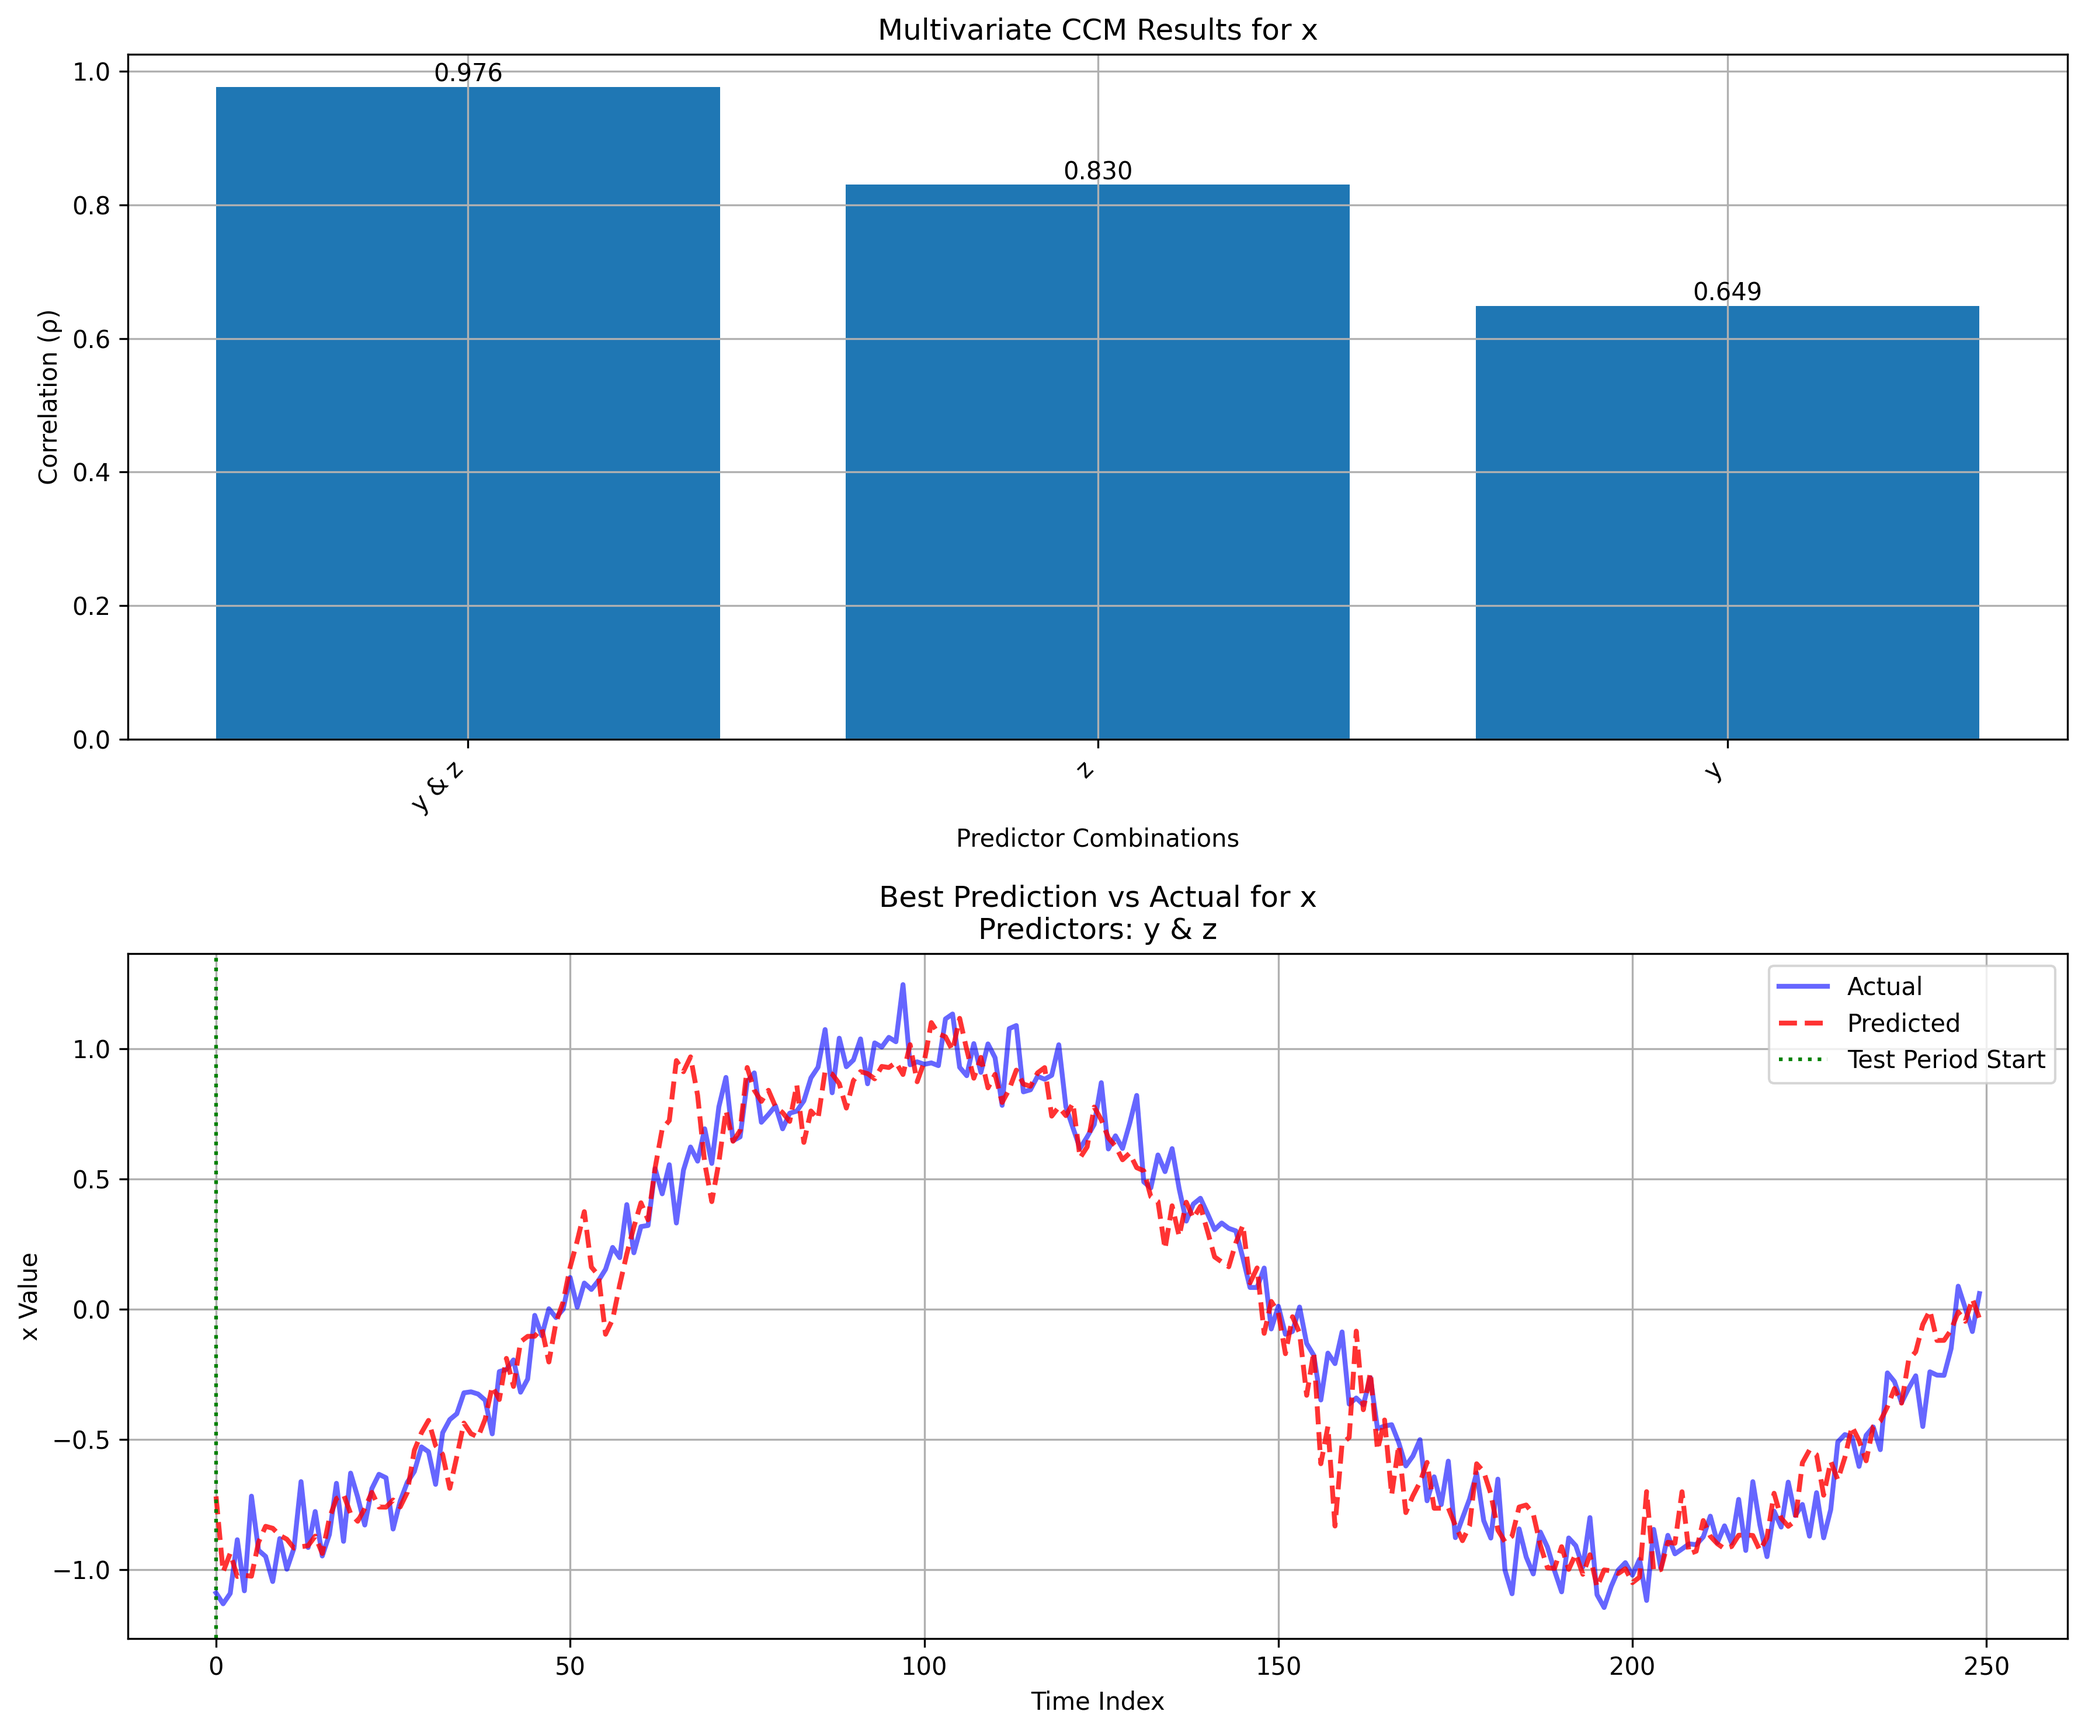
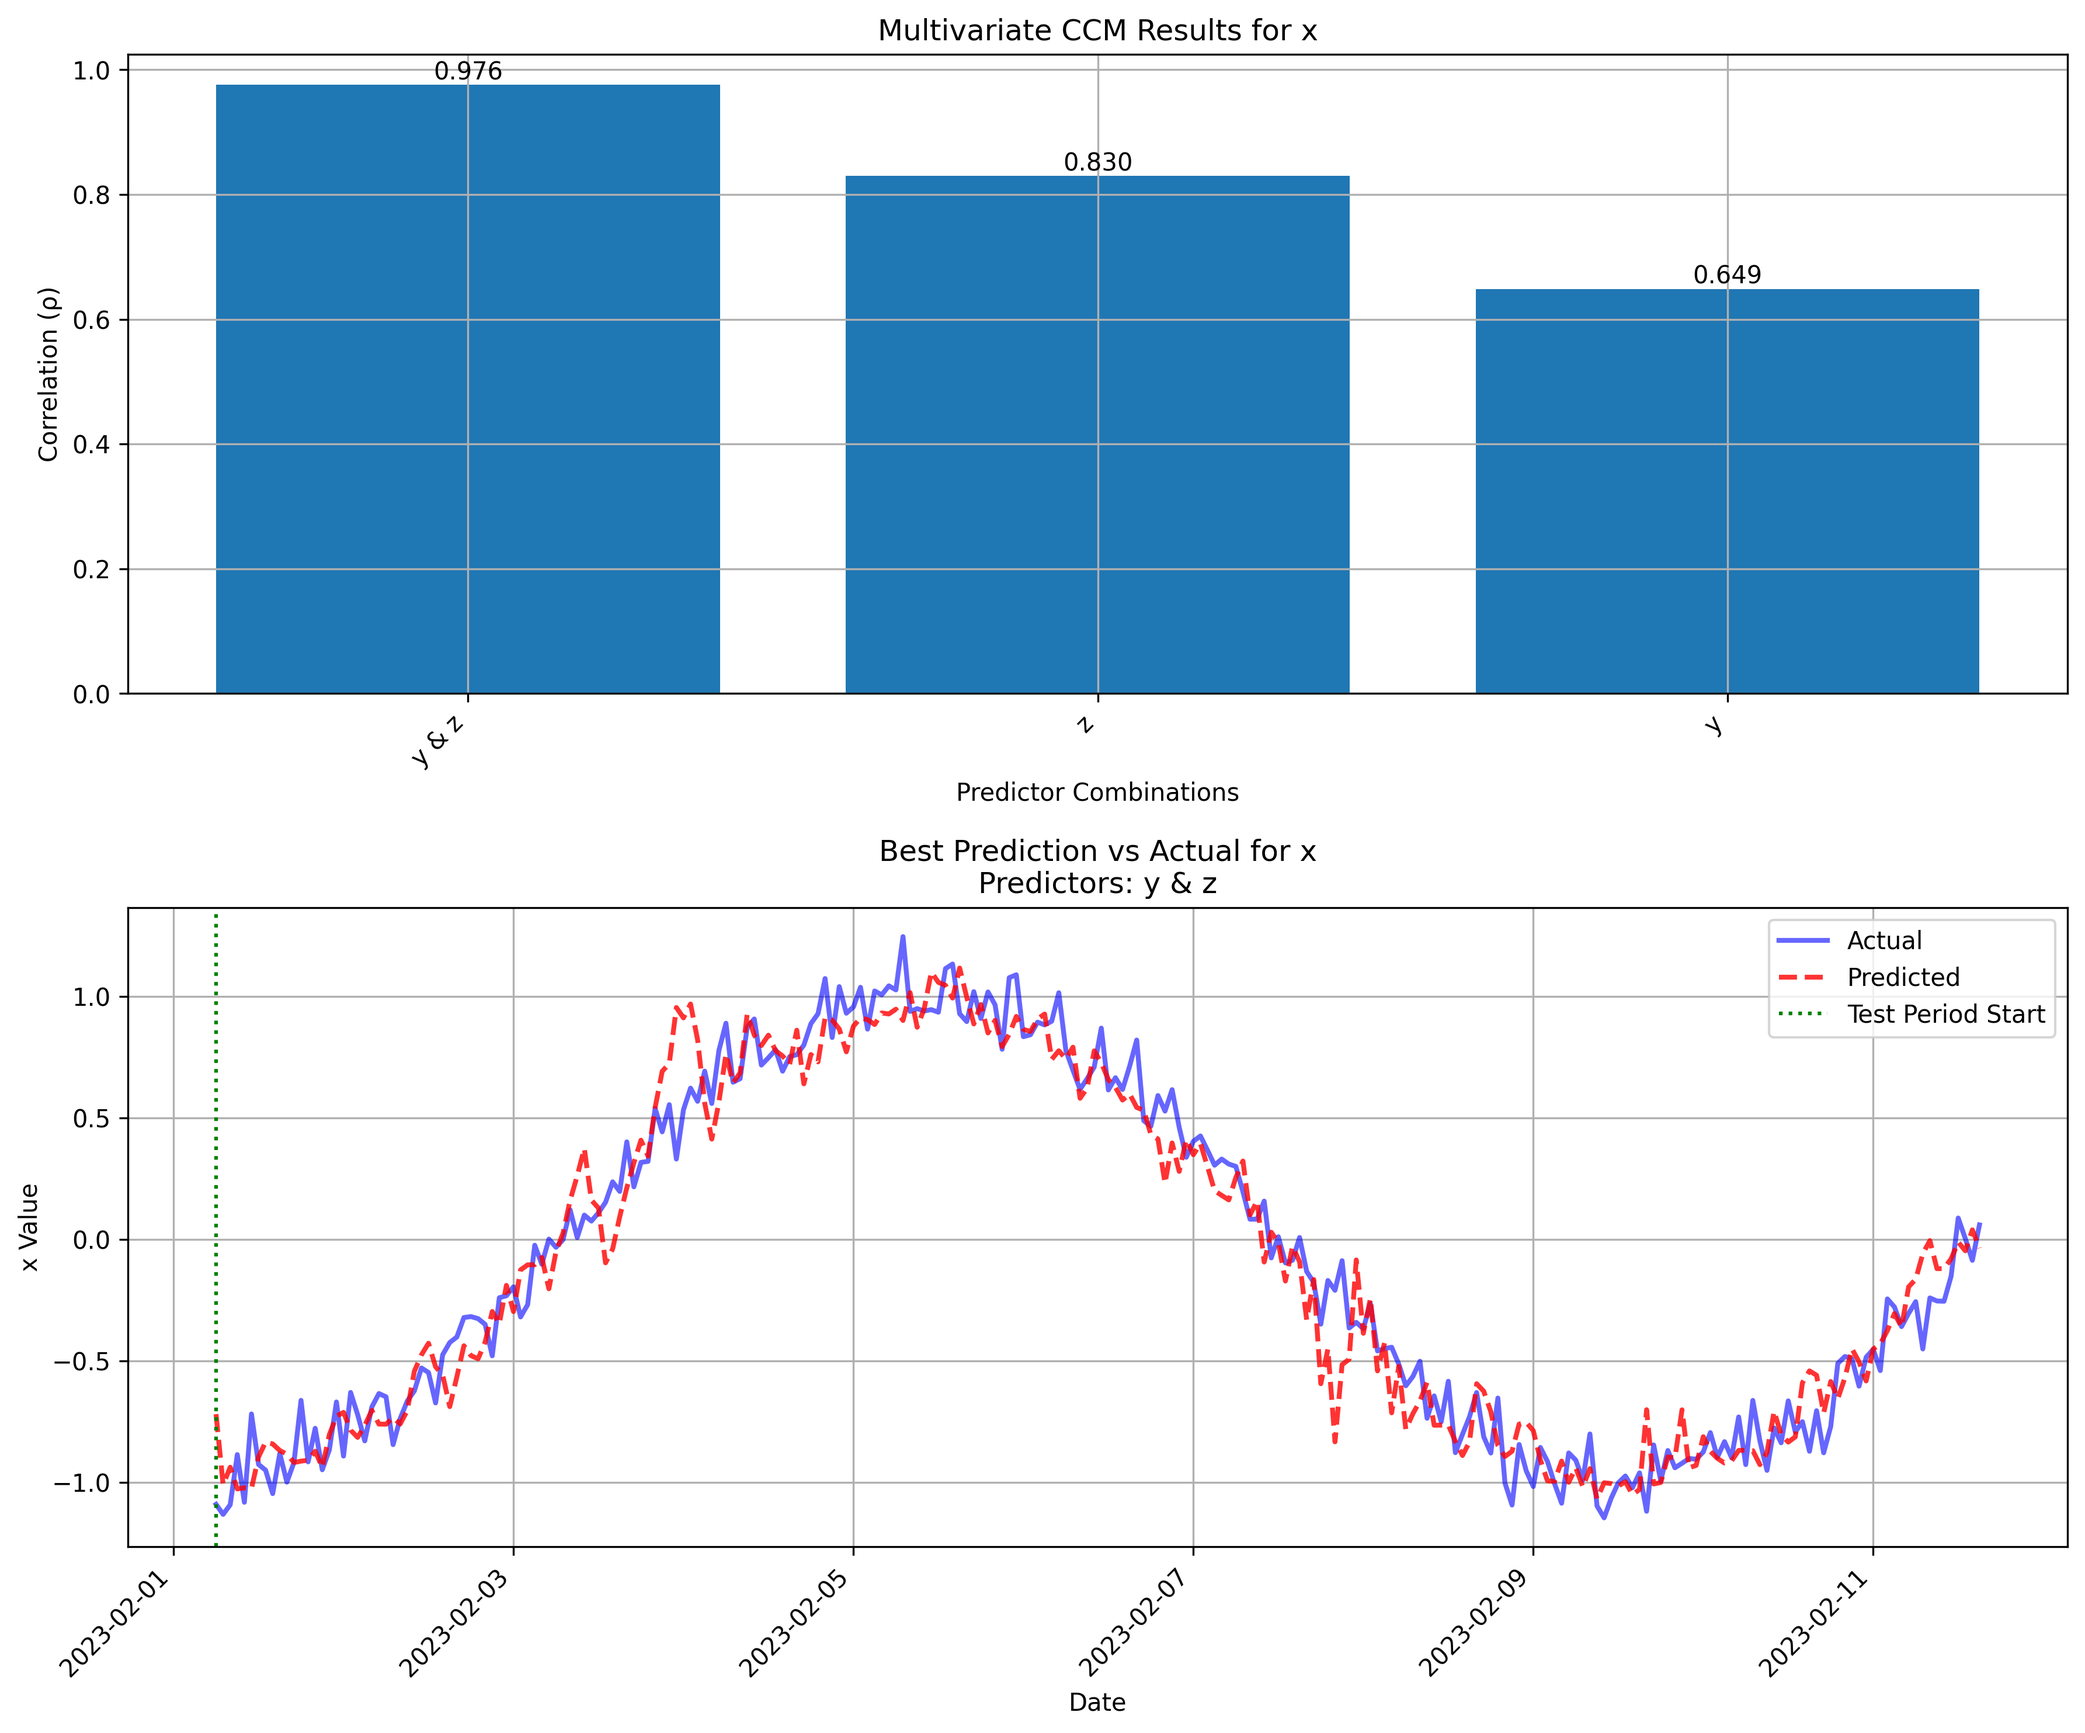
plotting updated to show dates on x-axis when available

diff --git a/src/plotting.py b/src/plotting.py
@@ -1,9 +1,25 @@
 import matplotlib.pyplot as plt
 import numpy as np
 import os
+import pandas as pd
 
-def plot_ccm_results(results, target, config, save_dir):
-    """Plot and save CCM analysis results."""
+def plot_ccm_results(results, target, config, save_dir, data=None):
+    """
+    Plot and save CCM analysis results.
+    
+    Parameters:
+    -----------
+    results : dict
+        Analysis results for the target variable
+    target : str
+        Name of target variable
+    config : dict
+        Configuration dictionary
+    save_dir : str
+        Directory to save plots
+    data : pandas.DataFrame, optional
+        Original data with datetime column if available
+    """
     fig, (ax1, ax2) = plt.subplots(2, 1, figsize=(12, 10))
     
     # Plot 1: Bar plot of correlations
@@ -31,17 +47,41 @@ def plot_ccm_results(results, target, config, save_dir):
     # Plot 2: Time series comparison
     if 'predictions' in results and results['predictions'] is not None:
         pred_data = results['predictions']
-        time_indices = np.arange(len(pred_data['actual']))
         
-        ax2.plot(time_indices, pred_data['actual'], 'b-', 
-                label='Actual', alpha=0.6, linewidth=2)
-        ax2.plot(time_indices, pred_data['predicted'], 'r--', 
-                label='Predicted', alpha=0.8, linewidth=2)
+        # Use datetime for x-axis if available
+        datetime_col = config['data'].get('datetime_column')
+        if datetime_col and data is not None and datetime_col in data.columns:
+            # Get datetime values for the prediction period
+            time_indices = pred_data['time_indices']
+            dates = data[datetime_col].iloc[time_indices].values
+            
+            # Plot with dates
+            ax2.plot(dates, pred_data['actual'], 'b-', 
+                    label='Actual', alpha=0.6, linewidth=2)
+            ax2.plot(dates, pred_data['predicted'], 'r--', 
+                    label='Predicted', alpha=0.8, linewidth=2)
+            
+            # Add train/test split line
+            split_date = dates[0]  # First prediction date
+            ax2.axvline(x=split_date, color='g', linestyle=':', label='Test Period Start')
+            
+            # Format x-axis
+            plt.setp(ax2.xaxis.get_majorticklabels(), rotation=45, ha='right')
+            ax2.set_xlabel('Date')
+            
+        else:
+            # Use index for x-axis if no datetime
+            time_indices = np.arange(len(pred_data['actual']))
+            
+            ax2.plot(time_indices, pred_data['actual'], 'b-', 
+                    label='Actual', alpha=0.6, linewidth=2)
+            ax2.plot(time_indices, pred_data['predicted'], 'r--', 
+                    label='Predicted', alpha=0.8, linewidth=2)
+            
+            # Add train/test split line
+            ax2.axvline(x=0, color='g', linestyle=':', label='Test Period Start')
+            ax2.set_xlabel('Time Index')
         
-        # Add train/test split line
-        ax2.axvline(x=0, color='g', linestyle=':', label='Test Period Start')
-        
-        ax2.set_xlabel('Time Index')
         ax2.set_ylabel(f'{target} Value')
         best_combo = ' & '.join(results['best_combo']['variables'])
         ax2.set_title(f'Best Prediction vs Actual for {target}\nPredictors: {best_combo}')
@@ -52,6 +92,49 @@ def plot_ccm_results(results, target, config, save_dir):
     
     # Save plot
     filename = f'ccm_results_{target}.png'
+    plt.savefig(os.path.join(save_dir, filename), bbox_inches='tight', dpi=300)
+    plt.close()
+    
+    return filename
+
+def plot_data_overview(data, config, save_dir):
+    """
+    Plot overview of input time series data.
+    
+    Parameters:
+    -----------
+    data : pandas.DataFrame
+        Input data with time series
+    config : dict
+        Configuration dictionary
+    save_dir : str
+        Directory to save plots
+    """
+    columns = config['data']['columns_to_keep']
+    datetime_col = config['data'].get('datetime_column')
+    
+    plt.figure(figsize=(12, 4 * len(columns)))
+    
+    for i, col in enumerate(columns, 1):
+        plt.subplot(len(columns), 1, i)
+        
+        if datetime_col and datetime_col in data.columns:
+            plt.plot(data[datetime_col], data[col], label=col)
+            plt.setp(plt.gca().xaxis.get_majorticklabels(), rotation=45, ha='right')
+            plt.xlabel('Date')
+        else:
+            plt.plot(data.index, data[col], label=col)
+            plt.xlabel('Time Index')
+            
+        plt.ylabel(col)
+        plt.title(f'Time Series: {col}')
+        plt.grid(True)
+        plt.legend()
+    
+    plt.tight_layout()
+    
+    # Save plot
+    filename = 'data_overview.png'
     plt.savefig(os.path.join(save_dir, filename), bbox_inches='tight', dpi=300)
     plt.close()
     

diff --git a/src/analysis.py b/src/analysis.py
@@ -4,6 +4,12 @@ from .plotting import plot_ccm_results
 def run_ccm_analysis(data, config, timestamp=None):
     """Run CCM analysis for all variables."""
     from .utils import save_results
+    from .plotting import plot_data_overview, plot_ccm_results
+    
+    # First plot overview of all time series
+    print("\nCreating data overview plot...")
+    overview_file = plot_data_overview(data, config, config['output']['plots_dir'])
+    print(f"Data overview saved as {overview_file}")
     
     results = {}
     columns = config['data']['columns_to_keep']
@@ -21,9 +27,11 @@ def run_ccm_analysis(data, config, timestamp=None):
         # Run analysis
         target_results = mccm.analyze()
         
-        # Create plots
+        # Create plots with datetime if available
         plot_file = plot_ccm_results(
-            target_results, target, config, config['output']['plots_dir']
+            target_results, target, config, 
+            config['output']['plots_dir'], 
+            data=data  # Pass the original data for datetime plotting
         )
         print(f"Plots saved as {plot_file}")
         
